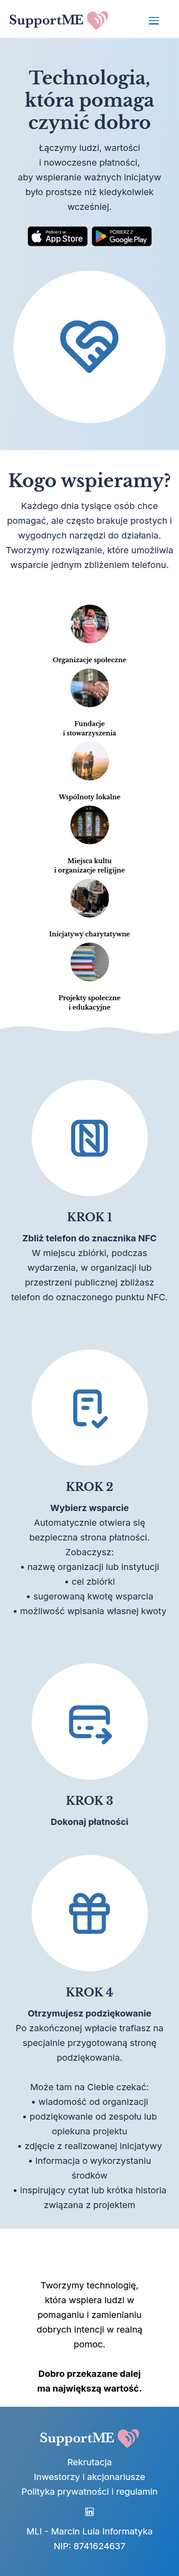
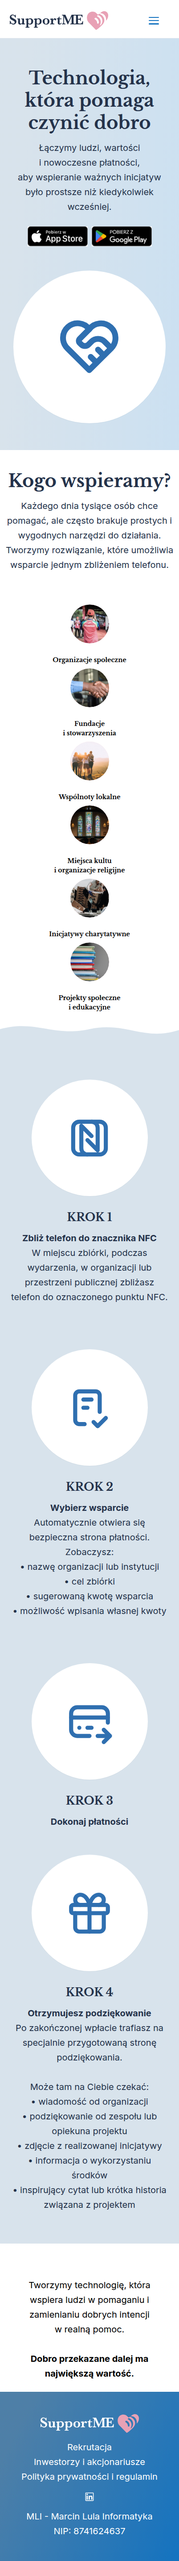
Fix mobile zamkniecie: niebieski panel siega nizej + tekst 4 linie + pozycja
Niebieski panel padding-bottom 36->70 (siega pod ostatnim punktem jak Figma).
Tekst zamykajacy max-width 299->325 (4 linie jak Figma, nie 5), padding-top 91->57
(kompensacja wiekszego panelu). Total mobile 5736 vs Figma 5754. Odstep kolko->KROK
= 31px jednolity dla wszystkich 4 (zweryfikowane, zgodny z Figma).

Changed region(s): [[0.0, 0.1248, 1.0, 0.9674], [0.1493, 0.0312, 0.8657, 0.0936]]

diff --git a/public/css/landing.css b/public/css/landing.css
@@ -230,7 +230,7 @@ img{ display:block; max-width:100%; }
     .lp-catpage > .lp-head{ padding-left:var(--lp-gutter); padding-right:var(--lp-gutter); }
     /* mobile: brak nagłówka „Jak to działa?" (nie ma go w ramce mobilnej Figmy) */
     .lp-how .lp-head{ display:none; }
-    .lp-how{ margin:14px 0 0; padding:137px 0 36px; background:var(--lp-wave); }
+    .lp-how{ margin:14px 0 0; padding:137px 0 70px; background:var(--lp-wave); }
     /* mobile: jednolity niebieski panel na pełną szerokość (jak w ramce Figmy),
        z falującą białą krawędzią u góry — zamiast desktopowej fali */
     .lp-how::before{
@@ -249,7 +249,7 @@ img{ display:block; max-width:100%; }
 /* tekst zamykający — wg Figmy tylko na mobile */
 .lp-closing{ display:none; }
 @media (max-width:560px){
-    .lp-closing{ display:block; max-width:299px; margin:0 auto; padding:91px 22px 4px; text-align:center; font-size:20px; line-height:33px; color:#000; }
+    .lp-closing{ display:block; max-width:325px; margin:0 auto; padding:57px 22px 4px; text-align:center; font-size:20px; line-height:33px; color:#000; }
     .lp-closing b{ font-weight:700; }
 }
 
